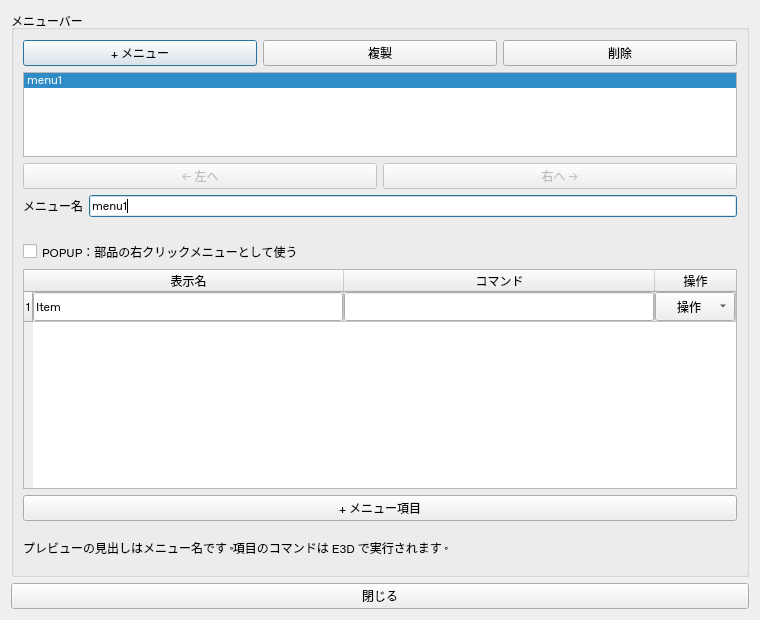
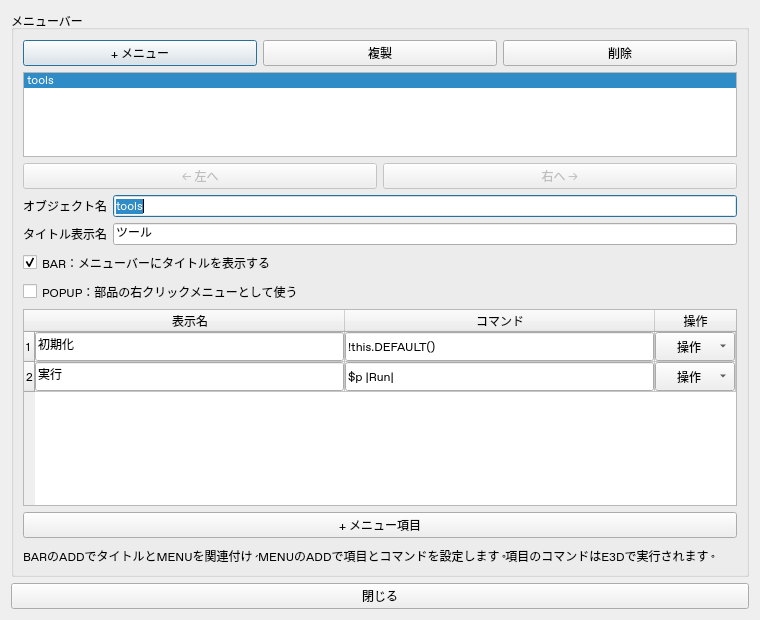
Generate BAR title bindings and edit menu display labels separately

Changed region(s): [[0.0303, 0.3065, 0.9684, 0.6435], [0.0303, 0.7968, 0.9684, 0.9194], [0.0303, 0.1226, 0.0908, 0.1532]]

diff --git a/tests/test_menu_bar.py b/tests/test_menu_bar.py
@@ -1,0 +1,137 @@
+import json
+import tempfile
+import unittest
+from pathlib import Path
+from PySide6.QtCore import Qt
+from PySide6.QtTest import QTest
+from PySide6.QtWidgets import QApplication
+from e3d_designer.model import Form,Menu,MenuItem,Gadget
+from e3d_designer.mac_import import import_mac,MacImportError
+from e3d_designer.names import rename
+from e3d_designer.app import Window
+
+
+def source(declarations):
+    return f"Setup Form !!Demo Dialog Size 70 22\n{declarations}\nExit\nShow !!Demo"
+
+
+class MenuBarTests(unittest.TestCase):
+    def test_bar_titles_are_separate_from_menu_items_and_names(self):
+        form=Form(menus=[Menu('tools',[MenuItem('実行','MiXeD Command')],label='ツール'),
+                         Menu('file',[MenuItem('保存','SAVEWORK')],label='ファイル')])
+        code=form.pml()
+        self.assertIn("  Bar\n    Add 'ツール' .tools\n    Add 'ファイル' .file\n  Menu .tools",code)
+        self.assertIn("Add '実行' 'MiXeD Command'",code)
+        self.assertEqual(code.count('  Bar\n'),1)
+        restored=Form.loads(form.dumps())
+        self.assertEqual(restored.pml(),code)
+        renamed=rename(restored,'menu',0,'Actions')
+        self.assertIn("Add 'ツール' .Actions",renamed.pml())
+        self.assertIn('Menu .Actions',renamed.pml())
+        self.assertEqual(renamed.menus[0].label,'ツール')
+
+    def test_legacy_json_uses_object_name_as_default_title(self):
+        raw=json.loads(Form(menus=[Menu('Tools')]).dumps())
+        del raw['form']['menus'][0]['label'];del raw['form']['menus'][0]['on_bar']
+        form=Form.loads(json.dumps(raw))
+        self.assertEqual(form.menus[0].display_label,'Tools')
+        self.assertIn("Bar\n    Add 'Tools' .Tools",form.pml())
+
+    def test_popup_and_unregistered_menu_do_not_appear_on_bar(self):
+        form=Form(menus=[Menu('tools',label='ツール'),
+                         Menu('hidden',label='未登録',on_bar=False),
+                         Menu('context',[MenuItem('選択','Q CE')],popup=True)])
+        code=form.pml()
+        self.assertIn("Add 'ツール' .tools",code)
+        self.assertNotIn("Add '未登録' .hidden",code)
+        self.assertNotIn(".context\n",code.split('Menu .tools')[0])
+        self.assertIn('Menu .hidden',code)
+        self.assertIn('Menu .context POPUP',code)
+        self.assertIn("!this.context.Add('CALLBACK', '選択', 'Q CE')",code)
+        self.assertNotIn('  Bar\n',Form(menus=[Menu('context',popup=True)]).pml())
+        self.assertNotIn('  Bar\n',Form().pml())
+
+    def test_import_bar_forward_references_title_order_and_unregistered_menu(self):
+        declarations="""Bar
+Add 'ファイル' .File
+Add 'MiXeD Tools' .Tools
+Menu .tools
+Add '実行' 'SaVeWoRk'
+Exit
+Menu .unused
+Add '未登録の項目' 'Q CE'
+Exit
+Menu .file
+Add '開く' 'open'
+Exit"""
+        form=import_mac(source(declarations)).form
+        self.assertEqual([m.name for m in form.menus],['file','tools','unused'])
+        self.assertEqual([m.display_label for m in form.menus[:2]],['ファイル','MiXeD Tools'])
+        self.assertFalse(form.menus[2].on_bar)
+        self.assertEqual(form.menus[1].items[0].command,'SaVeWoRk')
+        restored=import_mac(Form.loads(form.dumps()).pml()).form
+        self.assertEqual(restored.menus,form.menus)
+        renamed=rename(restored,'menu',1,'Actions')
+        self.assertIn("Add 'MiXeD Tools' .Actions",renamed.pml())
+
+    def test_invalid_bar_bindings_fail_with_source_row(self):
+        cases=[("Bar\nAdd 'Missing' .missing",3),
+               ("Bar\nAdd 'A' .tools\nAdd 'B' .TOOLS\nMenu .tools\nExit",4),
+               ("Bar\nAdd 'A' 'tools'",3),
+               ("Bar\nAdd 'A' .tools\nMenu .tools POPUP\nExit",3),
+               ("Bar\nAdd 'A' .tools\nMenu .tools\nExit\nBar\nAdd 'B' .tools",6)]
+        for declarations,row in cases:
+            with self.subTest(declarations=declarations),self.assertRaises(MacImportError) as error:
+                import_mac(source(declarations))
+            self.assertEqual(error.exception.line,row)
+
+    def test_legacy_mac_without_bar_is_migrated_explicitly(self):
+        result=import_mac(source("Menu .Tools\nAdd 'Run' 'Q CE'\nExit"))
+        self.assertIn("Add 'Tools' .Tools",result.form.pml())
+        self.assertTrue(any('旧形式' in message for message in result.warnings))
+
+    def test_title_type_and_implicit_bar_name_conflicts_are_rejected(self):
+        for menu in (Menu(label=123),Menu(label='bad\nlabel'),Menu(on_bar='yes'),Menu(name=123)):
+            with self.subTest(menu=menu),self.assertRaises(ValueError):Form(menus=[menu]).validate()
+        for form in (Form(menus=[Menu('bar')]),
+                     Form(menus=[Menu('tools')],gadgets=[Gadget(name='BAR')])):
+            with self.subTest(form=form),self.assertRaises(ValueError):form.validate()
+
+
+class MenuBarGuiTests(unittest.TestCase):
+    @classmethod
+    def setUpClass(cls):cls.app=QApplication.instance() or QApplication([])
+    def setUp(self):
+        self.temp=tempfile.TemporaryDirectory()
+        self.w=Window(settings_path=Path(self.temp.name)/'settings.json')
+    def tearDown(self):
+        self.app.clipboard().clear();self.w.dirty=False;self.w.close()
+        self.app.processEvents();self.temp.cleanup()
+
+    def test_title_edit_preview_save_rename_and_undo(self):
+        w=self.w;w.add_menu();w.show();w.menu_dialog.show();self.app.processEvents()
+        w.menu_label.setFocus();w.menu_label.selectAll();QTest.keyClicks(w.menu_label,'My Tools')
+        self.assertEqual(w.form.menus[0].label,'My Tools')
+        self.assertEqual(w.preview_menu_bar.actions()[0].text(),'My Tools')
+        self.assertEqual(w.form.menus[0].name,'menu1')
+        w.path=Path(self.temp.name)/'design.json'
+        QTest.keyClick(w.menu_label,Qt.Key_S,Qt.ControlModifier);self.app.processEvents()
+        self.assertEqual(Form.loads(w.path.read_text()).menus[0].label,'My Tools')
+        w.update_menu_name('Actions')
+        self.assertIn("Add 'My Tools' .Actions",w.form.pml())
+        self.assertEqual(w.preview_menu_bar.actions()[0].text(),'My Tools')
+        w.undo();self.assertEqual(w.form.menus[0].name,'menu1')
+        w.redo();self.assertEqual(w.form.menus[0].name,'Actions')
+
+    def test_bar_toggle_and_popup_keep_title_but_hide_preview(self):
+        w=self.w;w.add_menu();w.update_menu_label('Visible')
+        w.menu_on_bar.setChecked(False)
+        self.assertEqual(w.preview_menu_bar.actions(),[])
+        self.assertNotIn('  Bar\n',w.form.pml())
+        w.undo();self.assertEqual(w.preview_menu_bar.actions()[0].text(),'Visible')
+        w.menu_popup.setChecked(True)
+        self.assertFalse(w.menu_label.isEnabled());self.assertFalse(w.menu_on_bar.isEnabled())
+        self.assertFalse(w.menu_on_bar.isChecked())
+        self.assertEqual(w.preview_menu_bar.actions(),[])
+        w.menu_popup.setChecked(False)
+        self.assertEqual(w.preview_menu_bar.actions()[0].text(),'Visible')

diff --git a/e3d_designer/app.py b/e3d_designer/app.py
@@ -511,6 +511,7 @@ class Window(QMainWindow):
             if shortcut:
                 a.setShortcut(QKeySequence(shortcut));a.setToolTip(f'{label} ({shortcut})')
             a.triggered.connect(fn)
+            if label=='保存':self.save_action=a
             (edit_menu if label in ('元に戻す','やり直す','複製','削除') else file_menu).addAction(a)
             if label not in ('名前を付けて保存','複製','削除'):toolbar.addAction(a)
         self.code_action=QAction('コードを表示',self);self.code_action.setShortcut(QKeySequence('Ctrl+Shift+C'))
@@ -784,7 +785,11 @@ class Window(QMainWindow):
         menu_layout.addLayout(menu_order)
         menu_name_layout = QFormLayout(); self.menu_name = QLineEdit()
         self.menu_name.textEdited.connect(self.update_menu_name)
-        menu_name_layout.addRow('メニュー名',self.menu_name); menu_layout.addLayout(menu_name_layout)
+        menu_name_layout.addRow('オブジェクト名',self.menu_name)
+        self.menu_label=QLineEdit();self.menu_label.textEdited.connect(self.update_menu_label)
+        menu_name_layout.addRow('タイトル表示名',self.menu_label);menu_layout.addLayout(menu_name_layout)
+        self.menu_on_bar=QCheckBox('BAR：メニューバーにタイトルを表示する')
+        self.menu_on_bar.toggled.connect(self.update_menu_on_bar);menu_layout.addWidget(self.menu_on_bar)
         self.menu_popup = QCheckBox('POPUP：部品の右クリックメニューとして使う')
         self.menu_popup.toggled.connect(self.update_menu_popup);menu_layout.addWidget(self.menu_popup)
         self.menu_items = QTableWidget(0,3); self.menu_items.setHorizontalHeaderLabels(['表示名','コマンド','操作'])
@@ -795,9 +800,10 @@ class Window(QMainWindow):
         menu_layout.addWidget(self.menu_items)
         self.menu_add_item = QPushButton('+ メニュー項目'); self.menu_add_item.clicked.connect(self.add_menu_item)
         menu_layout.addWidget(self.menu_add_item)
-        note = QLabel('プレビューの見出しはメニュー名です。項目のコマンドは E3D で実行されます。')
+        note = QLabel('BARのADDでタイトルとMENUを関連付け、MENUのADDで項目とコマンドを設定します。項目のコマンドはE3Dで実行されます。')
         note.setWordWrap(True); menu_layout.addWidget(note)
         self.menu_dialog=QDialog(self);self.menu_dialog.setWindowTitle('メニューバーの編集');self.menu_dialog.resize(760,620)
+        self.menu_dialog.addAction(self.save_action)
         menu_dialog_layout=QVBoxLayout(self.menu_dialog);menu_dialog_layout.addWidget(self.menu_group)
         close_menu=QPushButton('閉じる');close_menu.clicked.connect(self.menu_dialog.close);menu_dialog_layout.addWidget(close_menu)
         rl.addStretch()
@@ -1089,12 +1095,12 @@ class Window(QMainWindow):
         for menu in self.preview_menus: menu.deleteLater()
         self.preview_menus = []
         for menu in self.form.menus:
-            if menu.popup: continue
-            preview = QMenu(menu.name,self.preview_menu_bar)
+            if menu.popup or not menu.on_bar: continue
+            preview = QMenu(menu.display_label,self.preview_menu_bar)
             self.preview_menus.append(preview)
             self.preview_menu_bar.addMenu(preview)
             for item in menu.items: preview.addAction(item.label)
-        menu_visible=any(not menu.popup for menu in self.form.menus)
+        menu_visible=any(not menu.popup and menu.on_bar for menu in self.form.menus)
         self.preview_menu_bar.setVisible(menu_visible)
         self.preview_menu_frame.setVisible(menu_visible)
         if self.current_menu() is None:
@@ -1108,6 +1114,11 @@ class Window(QMainWindow):
         self.menu_actions['right'].setEnabled(menu is not None and self.selected_menu < len(self.form.menus)-1)
         self.menu_name.setEnabled(menu is not None); self.menu_items.setEnabled(menu is not None)
         self.menu_popup.setEnabled(menu is not None);self.menu_popup.setChecked(menu.popup if menu else False)
+        self.menu_label.setEnabled(menu is not None and not menu.popup)
+        self.menu_on_bar.setEnabled(menu is not None and not menu.popup)
+        self.menu_on_bar.setChecked(menu.on_bar and not menu.popup if menu else False)
+        label=menu.display_label if menu else ''
+        if self.menu_label.text()!=label:self.menu_label.setText(label)
         self.menu_add_item.setEnabled(menu is not None)
         name = menu.name if menu else ''
         if self.menu_name.text() != name: self.menu_name.setText(name)
@@ -1207,6 +1218,16 @@ class Window(QMainWindow):
         try:result=rename(self.form,'menu',self.selected_menu,text)
         except ValueError as error:self.statusBar().showMessage(str(error));return
         self.checkpoint();self.form=result;self.refresh()
+
+    def update_menu_label(self,text):
+        menu=self.current_menu()
+        if self.loading or menu is None or menu.label==text:return
+        self.checkpoint();menu.label=text;self.refresh(rebuild=False)
+
+    def update_menu_on_bar(self,checked):
+        menu=self.current_menu()
+        if self.loading or menu is None or menu.on_bar==checked:return
+        self.checkpoint();menu.on_bar=checked;self.refresh()
 
     def add_menu_item(self):
         menu = self.current_menu()

diff --git a/e3d_designer/mac_import.py b/e3d_designer/mac_import.py
@@ -234,6 +234,7 @@ class Importer:
             preamble.append(self.raw[index])
         self.form.preamble_code='\n'.join(preamble).strip('\n')
         stack=[];layout={};comments=[];assembly=namespace='';members={};member_rows={};imports=[];index=start+1
+        bar_entries=[];bar_row=None
         kinds={'BUTTON':'button','PARAGRAPH':'paragraph','PARA':'paragraph','TEXT':'text','TOGGLE':'toggle','OPTION':'option',
                'LIST':'list','LINE':'line','FRAME':'frame','SLIDER':'slider','RTOGGLE':'rtoggle','COMBO':'combo','COMBOBOX':'combo',
                'VIEW':'view','CONTAINER':'container','TEXTPANE':'textpane','TEXTPANEL':'textpane','SELECTOR':'selector'}
@@ -273,6 +274,22 @@ class Importer:
                 member=tokens.pop().lstrip('.');tokens.word('IS');members[member.lower()]=(assembly,namespace,tokens.pop())
                 member_rows[member.lower()]=row
                 if tokens.more():raise MacImportError(row,'MEMBERの後に未対応の指定があります。')
+                continue
+            if key=='BAR':
+                if stack or bar_row is not None:raise MacImportError(row,'BARはフォーム直下に1つだけ指定してください。')
+                if tokens.more():raise MacImportError(row,'BARの後に未対応の指定があります。')
+                bar_row=row
+                while index<len(self.raw):
+                    value=self.code[index].strip();entry_row=index+1
+                    if not value:index+=1;continue
+                    if not re.match(r'^ADD\b',value,re.I):break
+                    index+=1;item=Tokens(value,entry_row);item.word('ADD')
+                    label=item.quoted();target=item.pop()
+                    if not re.fullmatch(r'\.'+NAME,target):raise MacImportError(entry_row,'BARのADDには.メニュー名を指定してください。')
+                    if item.more():raise MacImportError(entry_row,'BARの項目に未対応の指定があります。')
+                    if any(name.lower()==target[1:].lower() for _,name,_ in bar_entries):raise MacImportError(entry_row,'同じメニューをBARへ複数回登録できません。')
+                    bar_entries.append((label,target[1:],entry_row))
+                if not bar_entries:raise MacImportError(row,'BARにはADDでタイトルとメニュー名を指定してください。')
                 continue
             if key=='MENU':
                 if stack:raise MacImportError(row,'フレーム内でのMENU宣言は未対応です。')
@@ -344,6 +361,16 @@ class Importer:
         for row,field,value in imports:
             if not any(getattr(g,field)==value for g in containers):
                 raise MacImportError(row,'CONTAINERの設定用以外のIMPORT／USING宣言は未対応です。')
+        if bar_row is not None:
+            ordered=[]
+            for menu in self.form.menus:menu.on_bar=False
+            for label,name,row in bar_entries:
+                menu=next((m for m in self.form.menus if m.name.lower()==name.lower()),None)
+                if menu is None or menu.popup:raise MacImportError(row,'BARの登録先には定義済みの通常MENUを指定してください: '+name)
+                menu.label=label;menu.on_bar=True;ordered.append(menu)
+            self.form.menus=ordered+[m for m in self.form.menus if not m.on_bar]
+        elif any(not menu.popup for menu in self.form.menus):
+            self.warn('BARのない旧形式のMENUは、メニュー名をタイトルとしてBARへ登録しました。')
         for gadget in self.form.gadgets:
             for field in ('xref','yref','width_ref'):
                 target=self.gadget_named(getattr(gadget,field))

diff --git a/e3d_designer/model.py b/e3d_designer/model.py
@@ -163,6 +163,12 @@ class Menu:
     name: str = 'menu1'
     items: list[MenuItem] = field(default_factory=list)
     popup: bool = False
+    label: str | None = None
+    on_bar: bool = True
+
+    @property
+    def display_label(self):
+        return self.name if self.label is None else self.label
 
 
 @dataclass
@@ -328,8 +334,11 @@ class Form:
             raise ValueError('メニューは配列で指定してください。')
         for menu in self.menus:
             if not isinstance(menu.popup,bool): raise ValueError('メニューの POPUP は真偽値で指定してください。')
+            if not isinstance(menu.on_bar,bool):raise ValueError('BARへの登録設定は真偽値で指定してください。')
+            if menu.label is not None and not isinstance(menu.label,str):raise ValueError('メニューのタイトル表示名は文字列で指定してください。')
             if not isinstance(menu.name,str) or not IDENTIFIER.fullmatch(menu.name):
                 raise ValueError('メニュー名は英字で始まる英数字・_ にしてください。')
+            literal(menu.display_label)
             if menu.name.lower() in names:
                 raise ValueError('メニュー名が重複しています。')
             names.add(menu.name.lower())
@@ -340,6 +349,9 @@ class Form:
                     raise ValueError('メニュー項目の表示名・コマンドは文字列で指定してください。')
                 literal(item.label)
                 literal(item.command,allow_expansion=True)
+        if any(not menu.popup and menu.on_bar for menu in self.menus):
+            if 'bar' in names:raise ValueError('BARはメニューバー用の名前です。メニュー名には別の名前を指定してください。')
+            names.add('bar')
         for key in ('name', 'title', 'after_show_code', 'default_body','form_type','initcall','okcall','cancelcall','dock_side','preamble_code','constructor_body','source_mac_path'):
             if not isinstance(getattr(self, key), str): raise ValueError(f'{key} は文字列で指定してください。')
         if not isinstance(self.auto_default,bool):raise ValueError('DEFAULTの自動呼び出し設定は真偽値にしてください。')
@@ -684,6 +696,10 @@ class Form:
                  (f'setup form !!{self.name} MAIN' if self.form_type == 'MAIN' else f'setup form !!{self.name} DIALOG DOCK {self.docking_side()}' if self.docking_side() != 'NONE'
                   else f'setup form !!{self.name} size {n(self.width)} {n(self.height)} DIALOG'),
                  f'  title {literal(self.title)}']
+        bar_menus=[menu for menu in self.menus if not menu.popup and menu.on_bar]
+        if bar_menus:
+            lines.append('  bar')
+            lines.extend(f'    add {literal(menu.display_label)} .{menu.name}' for menu in bar_menus)
         for menu in self.menus:
             lines.append(f'  menu .{menu.name}'+(' POPUP' if menu.popup else ''))
             if not menu.popup:

diff --git a/e3d_designer/pml_syntax.py b/e3d_designer/pml_syntax.py
@@ -38,4 +38,4 @@ PATH HDIST HDISTANCE VDIST VDISTANCE HALIGN VALIGN CENTRE CENTER
 XMIN XCEN XMAX YMIN YCEN YMAX ANCHOR NOPADDING NOALIGN AUTOALIGN
 SCROLL RANGE STEP NDP STATES TAG TAGWIDTH TAGWID CHANNELS REQUESTS
 IMPORT USING NAMESPACE MEMBER NOBOX INDENT APPEND DELETE NEW COLLECTION
-Q QUERY SAVEWORK CE END MENU ADD LIMITS SELECT REHASH LOOP EVALUATE TRACK RATE CONTENTS COMMANDS'''.split())
+Q QUERY SAVEWORK CE END MENU BAR ADD LIMITS SELECT REHASH LOOP EVALUATE TRACK RATE CONTENTS COMMANDS'''.split())

diff --git a/docs/audit-latest.md b/docs/audit-latest.md
@@ -1,3 +1,16 @@
+# メニューバーのBAR構文の修正（2026-10-06）
+
+ユーザーからの構文訂正に合わせ、フォーム定義にBARとタイトル登録のADDを追加しました。BAR内の ADD 'タイトル表示名' .オブジェクト名 と、MENU内の ADD '項目表示名' 'コマンド' を分けて生成します。
+
+- MENUにタイトル表示名を独立して保存し、編集窓とプレビューへ反映します。既存JSONで未指定の場合は従来のオブジェクト名を使用します。オブジェクト名を変更しても、明示したタイトル表示名は変わりません。
+- BARへの登録設定を保持し、未登録MENUは定義だけを出力します。POPUPはBARへ登録しません。BARの暗黙の名前と衝突する部品・メニュー名を検出します。
+- MAC取り込みでBARのタイトル・参照先・表示順を復元し、先にBAR、後にMENUを書く形式にも対応します。参照先がない、重複登録、POPUPへの登録などは行番号付きで拒否します。BARがない旧版MACはメニュー名をタイトルにして登録し、移行を通知します。
+- メニュー編集窓が開いているとCtrl+Sが動作しない問題も修正しました。編集中のタイトルをそのまま設計JSONへ保存できます。
+
+回帰テスト9件を追加し、全395件が成功しました。タイトルの日本語・大文字小文字、JSON保存・読み込み、MAC再取り込み、名前変更、Undo／Redo、POPUPとの切り替えを確認しました。同梱11例のMACはCP932・CRLFを含めてJSONからの生成とバイト一致し、取り込んだメニューのタイトルも一致しました。メニューのサンプル・説明書・編集画面の画像を更新しました。Qt画面の確認、Pythonのコンパイル確認、差分の空白検査も成功しました。E3D 4.0実機とWindows EXEでの動作は未検証です。
+
+---
+
 # DEFAULTと共有コールバックの監査・修正（2026-10-06）
 
 監査対象: 4acbeee8e7ca549dbb79eea80c4b98ae2aa9c633。既存MACの取り込み、プロパティ・処理本文の編集、JSON保存、再出力を確認しました。
